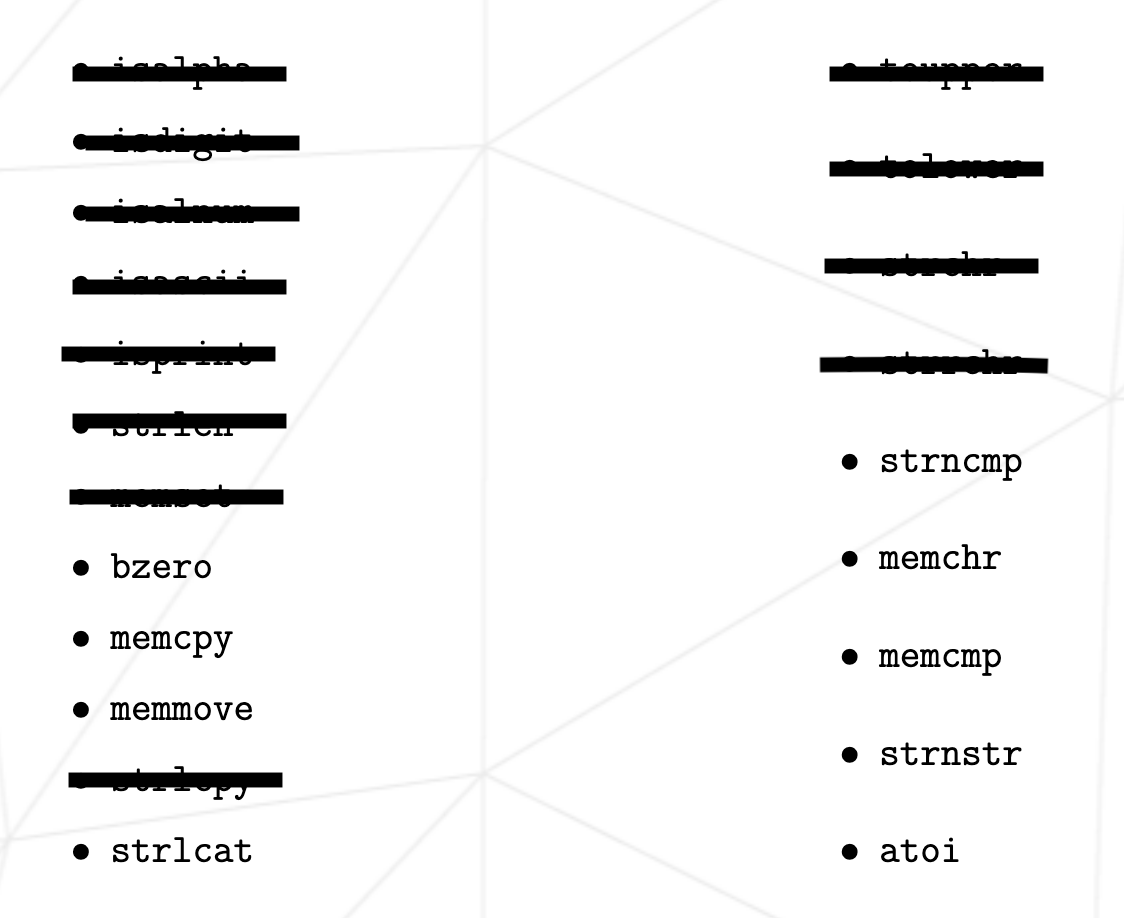
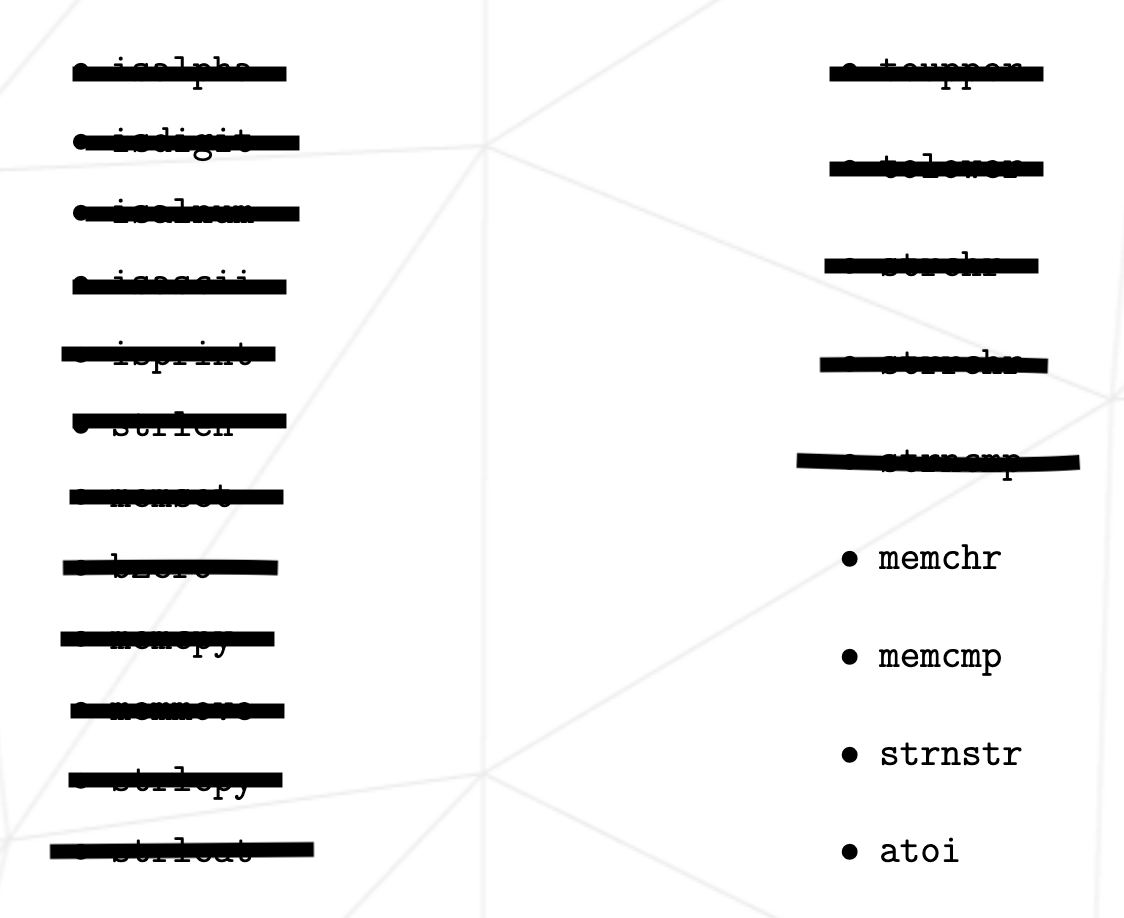
fifth day

diff --git a/ft_memmove.c b/ft_memmove.c
@@ -1,0 +1,36 @@
+/* ************************************************************************** */
+/*                                                                            */
+/*                                                        :::      ::::::::   */
+/*   ft_memmove.c                                       :+:      :+:    :+:   */
+/*                                                    +:+ +:+         +:+     */
+/*   By: ekutlay <marvin@42.fr>                     +#+  +:+       +#+        */
+/*                                                +#+#+#+#+#+   +#+           */
+/*   Created: 2022/01/07 20:23:34 by ekutlay           #+#    #+#             */
+/*   Updated: 2022/01/07 20:28:54 by ekutlay          ###   ########.fr       */
+/*                                                                            */
+/* ************************************************************************** */
+
+#include "libft.h"
+
+void	*ft_memmove(void *dst, const void *src, size_t len)
+{
+	unsigned char	*dst2;
+	unsigned char	*src2;
+
+	dst2 = (unsigned char *)dst;
+	src2 = (unsigned char *)src;
+	if (src < dst)
+	{
+		src2 = src2 + len - 1 ;
+		dst2 = dst2 + len - 1;
+		while (len--)
+		{
+			*dst2-- = *src2--;
+		}
+	}
+	else if (src >= dst)
+	{
+		*dst2++ = src2++;
+	}
+	return (dst);
+}

diff --git a/ft_strlcat.c b/ft_strlcat.c
@@ -1,0 +1,31 @@
+/* ************************************************************************** */
+/*                                                                            */
+/*                                                        :::      ::::::::   */
+/*   ft_strlcat.c                                       :+:      :+:    :+:   */
+/*                                                    +:+ +:+         +:+     */
+/*   By: ekutlay <marvin@42.fr>                     +#+  +:+       +#+        */
+/*                                                +#+#+#+#+#+   +#+           */
+/*   Created: 2022/01/06 11:35:42 by ekutlay           #+#    #+#             */
+/*   Updated: 2022/01/06 11:46:33 by ekutlay          ###   ########.fr       */
+/*                                                                            */
+/* ************************************************************************** */
+
+#include "libft.h"
+
+size_t	ft_strlcat(char *dest, const char *src, size_t size)
+{
+	size_t	i;
+	int		len;
+
+	i = 0;
+	if (size < ft_strlen(dest))
+		return (size + ft_strlen(src));
+	else
+	{
+		while (dest[i])
+			i++;
+		ft_strlcpy(&dest[i], src, size - i);
+		len = ft_strlen(src) + i;
+		return (len);
+	}
+}

diff --git a/libft.h b/libft.h
@@ -6,7 +6,7 @@
 /*   By: ekutlay <marvin@42.fr>                     +#+  +:+       +#+        */
 /*                                                +#+#+#+#+#+   +#+           */
 /*   Created: 2022/01/05 19:50:32 by ekutlay           #+#    #+#             */
-/*   Updated: 2022/01/05 20:21:07 by ekutlay          ###   ########.fr       */
+/*   Updated: 2022/01/07 20:30:03 by ekutlay          ###   ########.fr       */
 /*                                                                            */
 /* ************************************************************************** */
 
@@ -23,11 +23,16 @@ int		ft_isdigit(int c);
 int		ft_isprint(int c);
 
 void	*ft_memset(void *s, int c, size_t n);
+void	ft_bzero(void *s, size_t n);
+void	*ft_memcpy(void *restrict dst, const void *restrict src, size_t n);
+void	*ft_memmove(void *dst, const void *src, size_t len);
 
 char	*ft_strchr(const char *s, int c);
 char	*ft_strrchr(const char *string, int c);
 size_t	ft_strlcpy(char *dst, const char *src, size_t dstsize);
 size_t	ft_strlen(char *str);
+size_t	ft_strlcat(char *dest, const char *src, size_t n);
+int		ft_strncmp(const char *s1, const char *s2, size_t n);
 
 int		ft_tolower(int c);
 int		ft_toupper(int c);

diff --git a/ft_memcpy.c b/ft_memcpy.c
@@ -1,0 +1,30 @@
+/* ************************************************************************** */
+/*                                                                            */
+/*                                                        :::      ::::::::   */
+/*   ft_memcpy.c                                        :+:      :+:    :+:   */
+/*                                                    +:+ +:+         +:+     */
+/*   By: ekutlay <marvin@42.fr>                     +#+  +:+       +#+        */
+/*                                                +#+#+#+#+#+   +#+           */
+/*   Created: 2022/01/07 19:32:02 by ekutlay           #+#    #+#             */
+/*   Updated: 2022/01/07 20:21:36 by ekutlay          ###   ########.fr       */
+/*                                                                            */
+/* ************************************************************************** */
+
+#include "libft.h"
+
+void	*ft_memcpy(void *restrict dst, const void *restrict src, size_t n)
+{
+	size_t	i;
+
+	if (dst == '\0' && src == '\0')
+	{
+		return (dst);
+	}
+	i = 0;
+	while (i < n)
+	{
+			*(unsigned char *)(dst + i) = *(unsigned char *)(src + i);
+			i++;
+	}
+	return (dst);
+}

diff --git a/ft_strncmp.c b/ft_strncmp.c
@@ -1,0 +1,27 @@
+/* ************************************************************************** */
+/*                                                                            */
+/*                                                        :::      ::::::::   */
+/*   ft_strncmp.c                                       :+:      :+:    :+:   */
+/*                                                    +:+ +:+         +:+     */
+/*   By: ekutlay <marvin@42.fr>                     +#+  +:+       +#+        */
+/*                                                +#+#+#+#+#+   +#+           */
+/*   Created: 2022/01/06 11:25:13 by ekutlay           #+#    #+#             */
+/*   Updated: 2022/01/06 11:32:37 by ekutlay          ###   ########.fr       */
+/*                                                                            */
+/* ************************************************************************** */
+
+int	ft_strncmp(const char *s1, const char *s2, size_t n)
+{
+	size_t	i;
+
+	i = 0;
+	while (i < n && (s1[i] || s2[i]))
+	{
+		if (s1[i] != s2[i])
+		{
+			return (((unsigned char *)s1)[i] - ((unsigned char *)s2)[i]);
+		}
+		i++;
+	}
+	return (0);
+}

diff --git a/ft_bzero.c b/ft_bzero.c
@@ -1,0 +1,25 @@
+/* ************************************************************************** */
+/*                                                                            */
+/*                                                        :::      ::::::::   */
+/*   ft_bzero.c                                         :+:      :+:    :+:   */
+/*                                                    +:+ +:+         +:+     */
+/*   By: ekutlay <marvin@42.fr>                     +#+  +:+       +#+        */
+/*                                                +#+#+#+#+#+   +#+           */
+/*   Created: 2022/01/06 12:26:33 by ekutlay           #+#    #+#             */
+/*   Updated: 2022/01/06 12:28:33 by ekutlay          ###   ########.fr       */
+/*                                                                            */
+/* ************************************************************************** */
+
+#include "libft.h"
+
+void	ft_bzero(void *s, size_t n)
+{
+	size_t	i;
+
+	i = 0;
+	while (i < n)
+	{
+		((char *)s)[i] = 0;
+		i++;
+	}
+}
